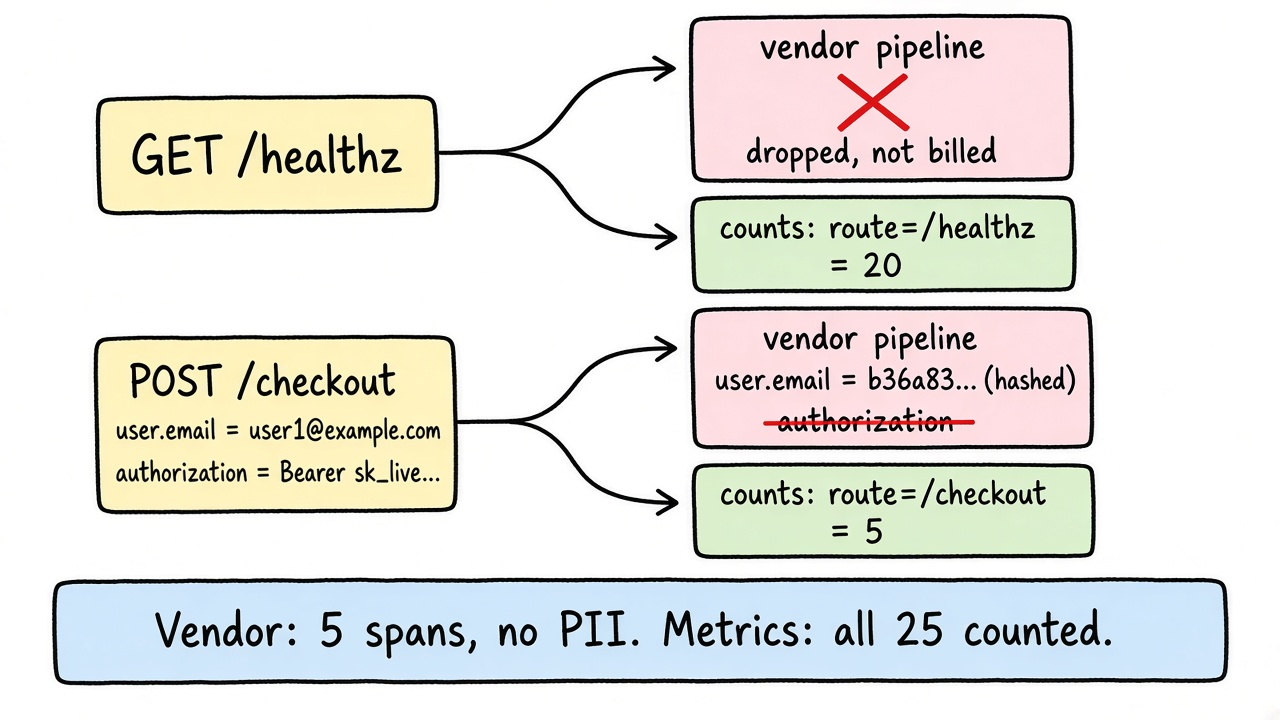
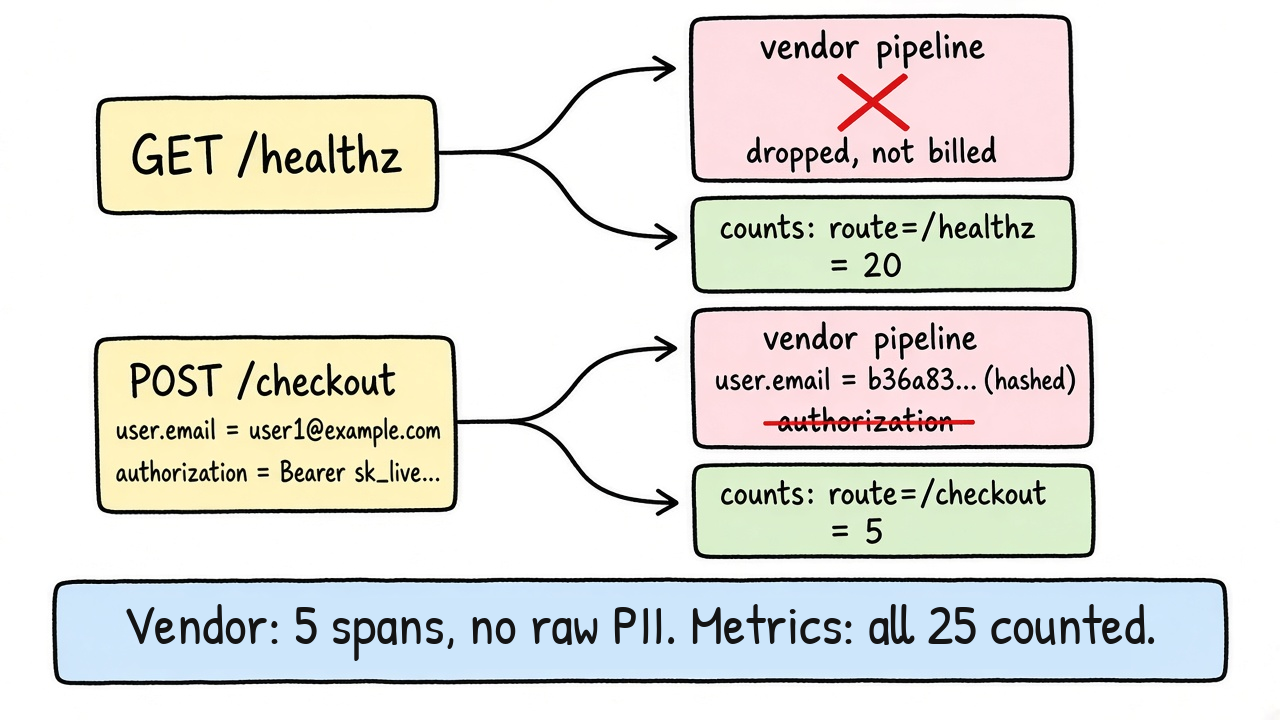
otel-collector-art: fact-check fixes, remove internal notes
Correct fan-out copy semantics so read-only pipelines share the original,
note that memory_limiter is one shared limiter, and state the contrib
binary as about 400 MB unpacked from a 112 MB download. Pin SOURCES to
Collector v0.162.0 and drop the unverified runtime claim.

Remove TOPIC.md, DIAGRAMS.md, and both caption files so internal planning
notes are not public, and drop the caption.txt entry from the CI/CD layout.

Changed region(s): [[0.0938, 0.825, 0.9062, 0.9167]]

diff --git a/otel-collector-art/article.md b/otel-collector-art/article.md
@@ -1,7 +1,5 @@
 # One span in, two truths out: the fan-out inside the OpenTelemetry Collector
 
-*OSS Wednesday, Issue #1. Interesting CNCF projects, and the interesting pieces inside them.*
-
 Your load balancer hits `/healthz` every few seconds. Every hit becomes a span, every span gets shipped to your tracing vendor, and every span gets billed. Meanwhile someone added `user.email` to the checkout span last sprint, so customer emails now live in a third party's database.
 
 You want three things at once: stop paying for health checks, keep knowing how many there were, and scrub PII before anything leaves your network. Without touching application code.
@@ -10,7 +8,7 @@ That is a job for the OpenTelemetry Collector. The reason it can do all three is
 
 ## What it is
 
-OpenTelemetry is the vendor-neutral standard for traces, metrics, and logs. It moved to CNCF Graduated on May 11, 2026. The Collector is its standalone agent and gateway: a Go binary that receives telemetry, processes it, and exports it anywhere. Your app speaks OTLP once and never learns which backend you use.
+OpenTelemetry is the vendor-neutral standard for traces, metrics, and logs. It moved to CNCF Graduated on May 11, 2026. The Collector is its standalone agent and gateway: a Go binary that receives telemetry, processes it, and exports it anywhere.
 
 ## The mechanism: a graph, not a pipe
 
@@ -18,28 +16,29 @@ A Collector config has four kinds of components: receivers (data in), processors
 
 The interesting part is what happens when one receiver feeds two pipelines.
 
-![One OTLP receiver fanning out to a vendor pipeline and a counts pipeline](diagrams/fanout-graph.png)
+The Collector puts a fan-out consumer between the receiver and its pipelines. At startup, every processor declares whether it mutates data (`MutatesData`), and one mutating processor makes its whole pipeline a mutator. The fan-out uses that to decide who gets a copy:
 
-The Collector puts a fan-out consumer between the receiver and its pipelines. At startup, every processor declares whether it mutates data (`MutatesData`). The fan-out uses that to decide who gets a copy:
-
-- Pipelines that only read share one copy, marked read-only.
+- Pipelines that only read share the original, marked read-only if there are several.
 - Pipelines that mutate get their own clone.
 - If every downstream pipeline mutates, the last one gets the original, saving one clone.
 
-The source comment in `internal/fanoutconsumer` says it plainly: "Clones only to the consumer that needs to mutate the data." And a processor listed in two pipelines becomes two separate instances, so no state leaks between them either.
+The source comment in `internal/fanoutconsumer` says it plainly: "Clones only to the consumer that needs to mutate the data." A processor listed in two pipelines also becomes two separate instances. Exception: `memory_limiter` shares one limiter across pipelines, since it guards the whole process.
 
-In our scenario, pipeline A drops `/healthz` and hashes the email. Pipeline B counts every span by route. A's edits cannot touch B's data, because A works on its own copy.
+In our scenario, pipeline A drops `/healthz` and hashes the email, so it mutates. Pipeline B only counts spans by route, so it reads. A gets a clone, B gets the original, so A's edits never reach B.
+
+![One OTLP receiver fanning out to a vendor pipeline and a counts pipeline](diagrams/fanout-graph.png)
 
 ## Hands-on: 25 spans, two pipelines
 
-The companion example runs a tiny Go "checkout-api" that emits 20 `/healthz` spans and 5 `/checkout` spans carrying `user.email` and an `Authorization` header. The app knows nothing about filtering. The Collector config does the work:
+The companion example runs a tiny Go "checkout-api" that emits 20 `/healthz` spans and 5 `/checkout` spans carrying `user.email` and an `Authorization` header. The app knows nothing about filtering; the config does the work:
 
 ```yaml
 service:
   pipelines:
     traces/vendor:
       receivers: [otlp]
-      processors: [memory_limiter, filter/drop_healthz, attributes/scrub]
+      processors:
+        [memory_limiter, filter/drop_healthz, attributes/scrub]
       exporters: [file/vendor]   # stand-in for your paid backend
     traces/counts:
       receivers: [otlp]
@@ -50,14 +49,14 @@ service:
       exporters: [file/counts]
 ```
 
-The filter is one OTTL condition: `span.attributes["http.route"] == "/healthz"`. The scrub hashes `user.email` and deletes the auth header.
+The filter is one OTTL condition; matching spans are dropped: `span.attributes["http.route"] == "/healthz"`. The scrub hashes `user.email` and deletes the auth header.
 
-Run `./run.sh`. Real output from Collector v0.162.0:
+Run `./run.sh`. Real output from Collector v0.162.0, trimmed:
 
 ```
 == traces/vendor (what your paid backend receives) ==
 spans by route: {'/checkout': 5}
-  user.email = b36a83701f1c3191e19722d6f90274bc1b5501fe69ebf33313e440fe4b0fe210
+  user.email = b36a83701f1c3191...ebf33313e440fe4b0fe210
 
 == metrics/counts (fed by the count connector, before filtering) ==
 app.span.count{http.route="/checkout"} = 5
@@ -70,13 +69,13 @@ The vendor got 5 spans instead of 25, with no raw email and no token. You still 
 
 ## Gotchas
 
-**Configured is not enabled.** Delete `attributes/scrub` from the pipeline list but keep its definition. `otelcol validate` passes, the Collector starts without a warning, and the raw email and `Bearer` token go straight to the vendor. The repo ships this as `gotcha-unwired.yaml` so you can watch it happen. Review the `pipelines` block, not the processor block.
+**Configured is not enabled.** Delete `attributes/scrub` from the pipeline list but keep its definition. `otelcol validate` passes, the Collector starts without a warning, and the raw email and `Bearer` token go straight to the vendor. The repo ships it as `gotcha-unwired.yaml`. Review the `pipelines` block, not the processor block.
 
-**Order is the program.** Processors run in the order listed. The docs recommend `memory_limiter` first, then anything that drops data, then transforms, then batching (and prefer exporter-side batching where available). Hash an attribute before a filter that matches on its raw value, and the filter quietly matches nothing.
+**Order is the program.** Processors run in the order listed. The docs recommend `memory_limiter` first, then anything that drops data, then transforms, then batching (ideally the exporter's own). Hash an attribute before a filter that matches on its raw value, and the filter quietly matches nothing.
 
-**Hashing is not anonymizing.** In v0.162.0 the `hash` action is unsalted SHA-256. The README still says SHA-1; the code and our output say SHA-256. Anyone holding your user list can hash it and join. Use `delete` when you do not need to group by user.
+**Hashing is not anonymizing.** In v0.162.0 the `hash` action is unsalted SHA-256. The processor's README still says SHA-1; the code and our output say SHA-256. Anyone holding your user list can hash it and join. Use `delete` when you do not need to group by user.
 
-**Every mutating pipeline costs a clone.** Five mutating pipelines on one receiver means four full copies of every batch. Free at demo scale, worth measuring at high volume.
+**Every mutating pipeline costs a clone.** Five mutating pipelines on one receiver cost at least four full copies of every batch. Free at demo scale, worth measuring at high volume.
 
 **Fan-out is synchronous.** It calls each pipeline in turn and returns the combined error to the receiver. If one pipeline refuses data, say `memory_limiter` shedding load, the client sees a failure and may retry. That retry can duplicate data in the pipeline that already accepted it.
 
@@ -84,14 +83,14 @@ The vendor got 5 spans instead of 25, with no raw email and no token. You still 
 
 Use it when you have more than one backend (or might switch), need to strip PII or noise centrally, or want to change telemetry without redeploying services. For a -1 -> 0 team it is the cheapest vendor exit you can buy: the app speaks OTLP, the Collector owns the routing.
 
-Skip it if you run one service, one backend, and low volume. The SDK can export straight to the backend, and a Collector is one more process to deploy, monitor, and size. If you do adopt it, note that the contrib binary is about 407 MB on linux/amd64 because it bundles everything. For production, the OpenTelemetry Collector Builder (`ocb`) builds a distribution with only the components you use.
+Skip it if you run one service, one backend, and low volume. The SDK can export straight to the backend, and a Collector is one more process to run and size. If you adopt it, note the contrib binary is about 400 MB unpacked on linux/amd64 (a 112 MB download) because it bundles every component. For production, the OpenTelemetry Collector Builder (`ocb`) builds a distribution with only the components you use.
 
 ## Try it
 
-Everything above, including the Go app, both configs, and a one-command runner (no Docker needed), is here:
+The Go app, both configs, and a one-command runner (no Docker needed):
 
 https://github.com/Apoorvgarg-creator/articles-linkedin/tree/main/otel-collector-art
 
-Run `./run.sh`, then run `./run.sh gotcha-unwired.yaml` and watch the token leak. It takes about two minutes, and it will change how you review the next Collector config that lands in a PR.
+Run `./run.sh`, then `./run.sh gotcha-unwired.yaml`, and watch the token leak. After the one-time download, a run takes seconds. It will change how you review the next Collector config in a PR.
 
 Which CNCF project should I open up next Wednesday? Reply and tell me.

diff --git a/otel-collector-art/SOURCES.md b/otel-collector-art/SOURCES.md
@@ -2,29 +2,34 @@
 
 ## CNCF status
 - OpenTelemetry on CNCF (accepted May 7, 2019; incubating Aug 26, 2021; graduated May 11, 2026): https://www.cncf.io/projects/opentelemetry/
+- CNCF graduation announcement (published May 21, 2026): https://www.cncf.io/announcements/2026/05/21/cloud-native-computing-foundation-announces-opentelemetrys-graduation-solidifying-status-as-the-de-facto-observability-standard/
 - etcd on CNCF (graduated Nov 24, 2020): https://www.cncf.io/projects/etcd/
 - CoreDNS on CNCF (graduated Jan 24, 2019): https://www.cncf.io/projects/coredns/
 
 ## Collector concepts and config
 - Collector configuration (receivers, processors, exporters, connectors, pipelines; "configuring a processor does not enable it"; separate processor instance per pipeline; localhost default): https://opentelemetry.io/docs/collector/configuration/
-- Processor README (data ownership, exclusive vs shared mode, `MutatesData`, recommended processor order, prefer exporter batching): https://github.com/open-telemetry/opentelemetry-collector/blob/main/processor/README.md
-- Fan-out consumer source ("Clones only to the consumer that needs to mutate the data", sequential calls, combined error): https://github.com/open-telemetry/opentelemetry-collector/blob/main/internal/fanoutconsumer/traces.go
+- Processor README (data ownership, exclusive vs shared mode, `MutatesData`, recommended processor order, prefer exporter batching): https://github.com/open-telemetry/opentelemetry-collector/blob/v0.162.0/processor/README.md
+- Fan-out consumer source ("Clones only to the consumer that needs to mutate the data", last mutator gets the original only when no read-only consumer exists, read-only marking only with 2+ read-only consumers, sequential calls, combined error): https://github.com/open-telemetry/opentelemetry-collector/blob/v0.162.0/internal/fanoutconsumer/traces.go
+- Pipeline capabilities node (a pipeline mutates if any processor in it mutates): https://github.com/open-telemetry/opentelemetry-collector/blob/v0.162.0/service/internal/graph/graph.go
+- memory_limiter factory (one shared limiter per config across pipelines; `MutatesData: false`): https://github.com/open-telemetry/opentelemetry-collector/blob/v0.162.0/processor/memorylimiterprocessor/factory.go
 - memory_limiter README (put it first; refuses data when over limit): https://github.com/open-telemetry/opentelemetry-collector/blob/main/processor/memorylimiterprocessor/README.md
 - Batch processor README (place after memory_limiter and sampling): https://github.com/open-telemetry/opentelemetry-collector/blob/main/processor/batchprocessor/README.md
 
 ## Components used in the demo (v0.162.0)
 - Filter processor (`trace_conditions`, OTTL, alpha for traces): https://github.com/open-telemetry/opentelemetry-collector-contrib/blob/v0.162.0/processor/filterprocessor/README.md
 - Attributes processor (beta; README says hash is SHA-1): https://github.com/open-telemetry/opentelemetry-collector-contrib/blob/v0.162.0/processor/attributesprocessor/README.md
-- Attribute action code (HASH uses SHA-256 in v0.162.0): https://github.com/open-telemetry/opentelemetry-collector-contrib/blob/v0.162.0/internal/coreinternal/attraction/attraction.go
-- Count connector (alpha; traces -> metrics, per-attribute counts): https://github.com/open-telemetry/opentelemetry-collector-contrib/blob/main/connector/countconnector/README.md
+- Attribute action code (HASH calls sha2Hasher in v0.162.0): https://github.com/open-telemetry/opentelemetry-collector-contrib/blob/v0.162.0/internal/coreinternal/attraction/attraction.go
+- Hasher (crypto/sha256, no salt): https://github.com/open-telemetry/opentelemetry-collector-contrib/blob/v0.162.0/internal/coreinternal/attraction/hasher.go
+- Count connector (alpha; traces -> metrics, per-attribute counts; `MutatesData: false`): https://github.com/open-telemetry/opentelemetry-collector-contrib/blob/v0.162.0/connector/countconnector/README.md
 - Collector release v0.162.0 (published 2026-09-29): https://github.com/open-telemetry/opentelemetry-collector-releases/releases/tag/v0.162.0
 - OpenTelemetry Collector Builder (ocb): https://opentelemetry.io/docs/collector/extend/ocb/
+- Contrib distribution contents (all core and contrib components at alpha or higher; recommends a custom build for production): https://github.com/open-telemetry/opentelemetry-collector-releases/blob/v0.162.0/distributions/otelcol-contrib/README.md
 
 ## Shortlist runner-ups
 - CoreDNS plugin chain order defined in plugin.cfg: https://coredns.io/manual/toc/
 - etcd API, ErrCompacted on compacted revisions: https://etcd.io/docs/v3.6/learning/api/
 
 ## Measured on the box (not from docs)
-- otelcol-contrib v0.162.0 linux/amd64 binary size: 407,498,914 bytes.
-- `otelcol-contrib validate` exits 0 and the Collector logs no warning when `attributes/scrub` is defined but not in any pipeline (`gotcha-unwired.yaml`).
+- otelcol-contrib v0.162.0 linux/amd64 binary size: 407,498,914 bytes unpacked (407.5 MB, which `ls -lh` shows as 389M because it uses MiB). The release tarball `otelcol-contrib_0.162.0_linux_amd64.tar.gz` is 112,285,869 bytes (about 112 MB).
+- `otelcol-contrib validate` exits 0 and the Collector logs no warning, even with `service.telemetry.logs.level=debug`, when `attributes/scrub` is defined but not in any pipeline (`gotcha-unwired.yaml`).
 - `hash` output for `user1@example.com` equals `sha256sum` of that string.

diff --git a/otel-collector-art/README.md b/otel-collector-art/README.md
@@ -1,6 +1,6 @@
 # One span in, two truths out: the OpenTelemetry Collector fan-out
 
-Companion code for **The Weekly Commit, OSS Wednesday #1**. Read the article: [article.md](./article.md).
+Companion code for **The Weekly Commit** newsletter article "One span in, two truths out". Read the article: [article.md](./article.md).
 
 A tiny Go service emits 25 spans (20 health checks, 5 checkouts carrying an email and a bearer token). One OpenTelemetry Collector receiver fans them out to two pipelines:
 
@@ -24,12 +24,12 @@ app.span.count{http.route="/checkout"} = 5
 app.span.count{http.route="/healthz"} = 20
 ```
 
-- The filter in `traces/vendor` did not affect `traces/counts`: the fan-out gave the mutating pipeline its own clone.
+- The filter in `traces/vendor` did not affect `traces/counts`: the fan-out gave the mutating pipeline its own clone and the read-only pipeline the original.
 - `authorization` is gone. `user.email` is an **unsalted SHA-256** (equals `printf 'user1@example.com' | sha256sum`), even though the attributes processor README says SHA-1.
 
 **2. Gotcha: a processor that is configured but not wired into a pipeline does nothing, silently.**
 
-`./run.sh gotcha-unwired.yaml` (same config, `attributes/scrub` removed from the pipeline list only). `otelcol validate` passes and the Collector logs no warning:
+`./run.sh gotcha-unwired.yaml` (same config, `attributes/scrub` removed from the pipeline list only). `otelcol validate` passes and the Collector logs no warning, even at `debug` level:
 
 ```
 == traces/vendor (what your paid backend receives) ==
@@ -57,7 +57,7 @@ cd articles-linkedin/otel-collector-art/example
 ./run.sh gotcha-unwired.yaml   # the silent-misconfig gotcha
 ```
 
-`run.sh` downloads `otelcol-contrib` v0.162.0 into `example/bin/` on first run (about 407 MB unpacked, override with `OTELCOL_VERSION=...`), validates the config, starts the Collector on `localhost:4318`, runs the Go app, then prints what each pipeline exported via `summarize.py`. Raw exporter output lands in `example/out/` (`vendor.json`, `counts.json`, `collector.log`).
+`run.sh` downloads `otelcol-contrib` v0.162.0 into `example/bin/` on first run (a 112 MB download that unpacks to about 400 MB; override the version with `OTELCOL_VERSION=...`), validates the config, starts the Collector on `localhost:4318`, runs the Go app, then prints what each pipeline exported via `summarize.py`. Raw exporter output lands in `example/out/` (`vendor.json`, `counts.json`, `collector.log`).
 
 ## Layout
 

diff --git a/production-stories-101-cicd/README.md b/production-stories-101-cicd/README.md
@@ -32,7 +32,6 @@ The runnable starter is [`example/`](example/). The shortened article is [`artic
 .
 ├── article.md
 ├── SOURCES.md
-├── caption.txt
 ├── diagrams/
 │   ├── cicd-friday-failure.png
 │   └── cicd-mvp-pipeline.png
